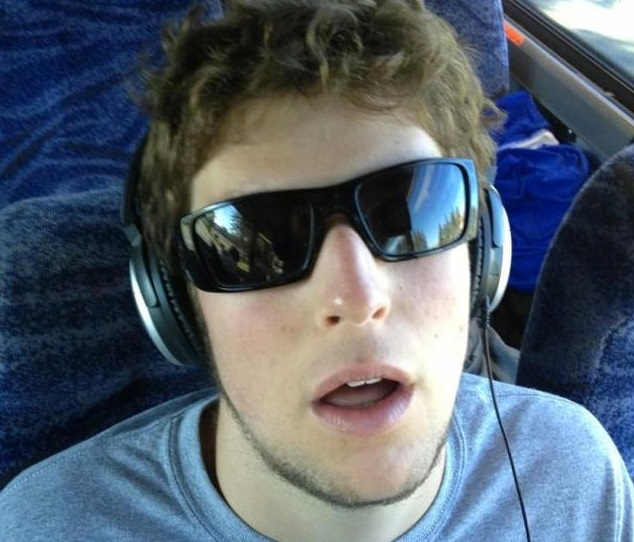
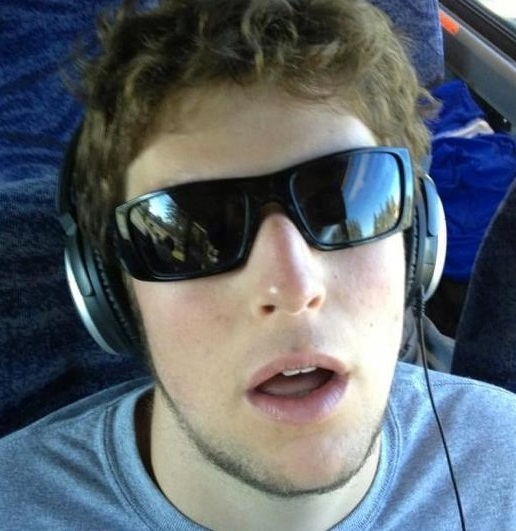
a
a

diff --git a/mac_man/develop/index.html b/mac_man/develop/index.html
@@ -45,7 +45,7 @@
 				
 				<div>
 					<div>
-						<span class="me image"><img src="images\shi.jpg"/></span>
+						<span class="me image"><img src="images\pic.jpg"/></span>
 					</div>
 					<div>
 						<header>
